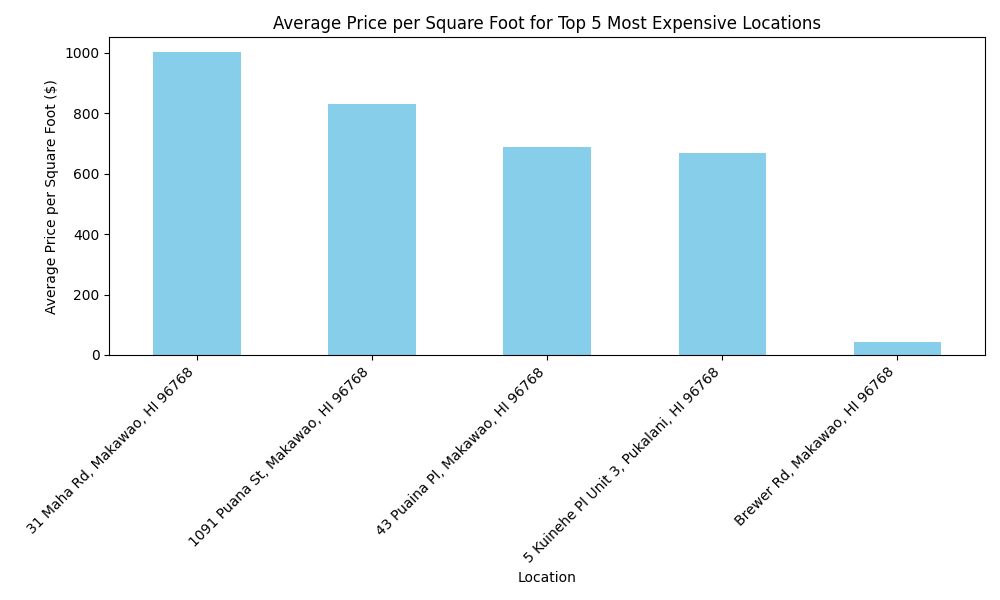
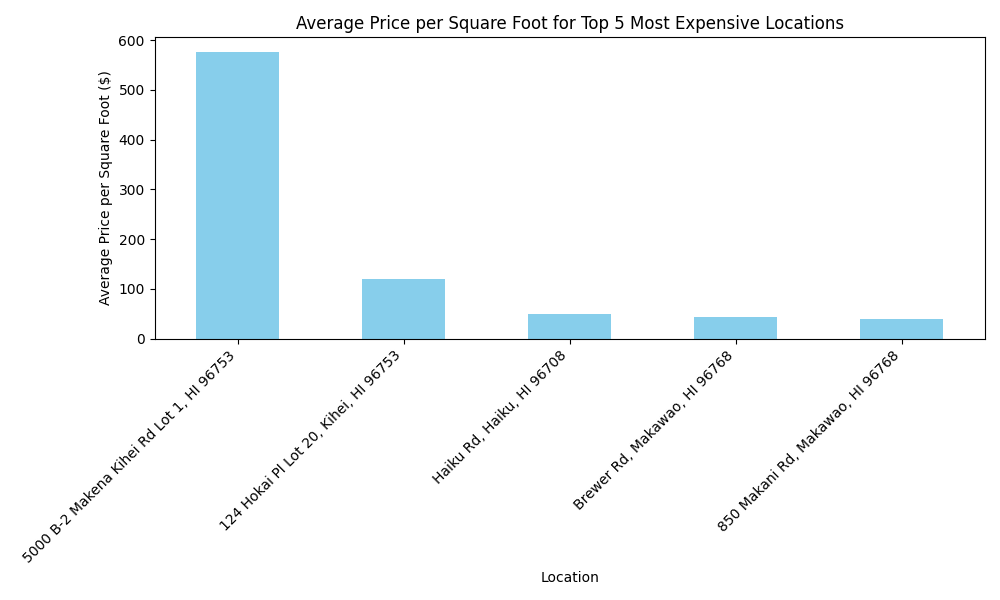
increase number of records, change apartments into the land listing

diff --git a/scraper/scrape_lands.py b/scraper/scrape_lands.py
@@ -6,8 +6,11 @@ import requests
 from retry import retry
 from config import collection
 
+payload = { 'api_key': 'c76de47d5f74419c14da1ee0df1ecec6', 'url': 'https://www.realtor.com/realestateandhomes-search/Makawao_HI/type-land/' }
+r = requests.get('https://api.scraperapi.com/', params=payload)
+
 # Website to scrape
-base_website = "https://www.realtor.com/realestateandhomes-search/Makawao_HI"
+base_website = "https://www.realtor.com/realestateandhomes-search/Makawao_HI/type-land/"
 
 # User Agents to rotate to avoid getting blocked
 user_agents = [
@@ -25,9 +28,8 @@ proxies = [
     "http://117.250.3.58:8080",
 ]
 
-# Empty arrays for the apartments and links
-apartments = []
-apartment_links = []
+# Empty arrays for the land and links
+land_links = []
 
 
 # Handle retries
@@ -44,36 +46,35 @@ def get_data(url, headers, proxy):
         return soup
 
 
-# Get the date the apartment was listed
+# Get the date the land was listed
 def get_listed_date(soup):
-    # Find a when the land was posted
+    # Find when the land was posted
     days_el1 = soup.find('span', string='Time on Realtor.com')
-    days_el = days_el1.find_next('div')
+    days_el = days_el1.find_next('div') if days_el1 else None
     # Get only days
     days_ago = days_el.getText(strip=True).split(' ') if days_el else 'N/A'
     # Calculate the date when it was listed
-    date = datetime.now() - timedelta(days=int(days_ago[0]))
+    date = datetime.now() - timedelta(days=int(days_ago[0])) if days_ago != 'N/A' else datetime.now()
 
     # Return the date in the format dd-mm-yy
     return date.strftime('%d-%m-%Y')
 
 
 # Handle pagination
-def get_next_page(soup):
+def get_next_page(soup, page_number):
     next_link = soup.find('a', class_='base__StyledAnchor-rui__ermeke-0 Bcaij next-link')
-
-    if next_link and 'disabled' not in next_link['class']:
-        return 'https://www.realtor.com' + next_link['href']
+    if next_link and 'disabled' not in next_link.get('class', []):
+        return base_website + "pg-" + page_number
     return None
 
 
 def get_size(soup):
-    # Get the size of the apartment
+    # Get the size of the land
     size_el = soup.find('span', class_='meta-value')
     size = float(size_el.getText(strip=True).replace(',', '')) if size_el else 'N/A'
 
     # Find whether the size is in acres or sqft
-    unit_el = size_el.find_next_sibling(string=True)
+    unit_el = size_el.find_next_sibling(string=True) if size_el else None
     unit = unit_el.strip() if unit_el else 'N/A'
 
     if unit == 'acre lot':
@@ -89,62 +90,58 @@ def main():
         "Dnt": "1",
         "Upgrade-Insecure-Requests": "1",
     }
-    # Rotate proxies
     proxy = {"http": random.choice(proxies)}
     next_page = base_website
+    page_count = 1
+    max_pages = 3  # Adjust this value to scrape more or fewer pages
 
-    # Redirecting to the next pages
-    while next_page:
+    while next_page and page_count < max_pages:
+        print(f"Scraping page {page_count}")
         soup = get_data(next_page, headers, proxy)
-        if soup is None:  # If you're not allowed to scrape the page, skip it
-            continue
 
-        # Find all "cards" of the apartments
-        list_of_apartments = soup.find_all('div', class_='BasePropertyCard_propertyCardWrap__30VCU')
+        list_of_lands = soup.find_all('div', class_='BasePropertyCard_propertyCardWrap__30VCU')
 
-        # Iterate through apartments
-        for apartment in list_of_apartments:
-            for link in apartment.find_all('a', class_='LinkComponent_anchor__TetCm'):
+        for land in list_of_lands:
+            for link in land.find_all('a', class_='LinkComponent_anchor__TetCm'):
                 href = 'https://www.realtor.com' + link['href']
+                if href not in land_links:
+                    land_links.append(href)
 
-                # Add apartment link to a list
-                if href not in apartment_links:
-                    apartment_links.append(href)
+        next_page = get_next_page(soup, page_count)
+        if next_page:
+            page_count += 1
+        time.sleep(random.uniform(2, 5))  # Add a random delay between page requests
 
-            # Get the next page
-            next_page = get_next_page(soup)
+    print(f"Found {len(land_links)} land listings across {page_count} pages")
 
-    for link in apartment_links:
+    for index, link in enumerate(land_links):
+        print(f"Scraping listing {index + 1} of {len(land_links)}")
         soup = get_data(link, headers, proxy)
 
-        # Get the title of the apartment
         title_el = soup.find('h1', class_='sc-6a58edfc-3 kpZRpX')
         title = title_el.getText(strip=True) if title_el else 'N/A'
 
-        # Get the location
         location = title
 
-        # Get the price
         price_el = soup.find('div', class_='Pricestyles__StyledPrice-rui__btk3ge-0 kjbIiZ sc-54acf6bc-1 VAINH')
-        price = price_el.getText(strip=True)[1:].replace(',', '') if price_el else 'N/A' # Remove the dollar sign and convert into text
+        price = price_el.getText(strip=True)[1:].replace(',', '') if price_el else 'N/A'
 
         date = get_listed_date(soup)
 
-        apartment = {
+        land = {
             'Title': title,
             'Location': location,
-            'Price ($)': float(price),
+            'Price ($)': float(price) if price != 'N/A' else 'N/A',
             'Size (sqft)': get_size(soup),
             'Listing date': date,
             'URL': link
         }
 
-        # Insert the apartment into the collection
-        collection.insert_one(apartment)
+        collection.insert_one(land)
 
-        # Delay after a land scraping
-        time.sleep(3)
+        time.sleep(random.uniform(3, 6))  # Add a random delay between listing scrapes
+
     print('Data has been scraped successfully!')
 
-
-main()
+if __name__ == "__main__":
+    main()
